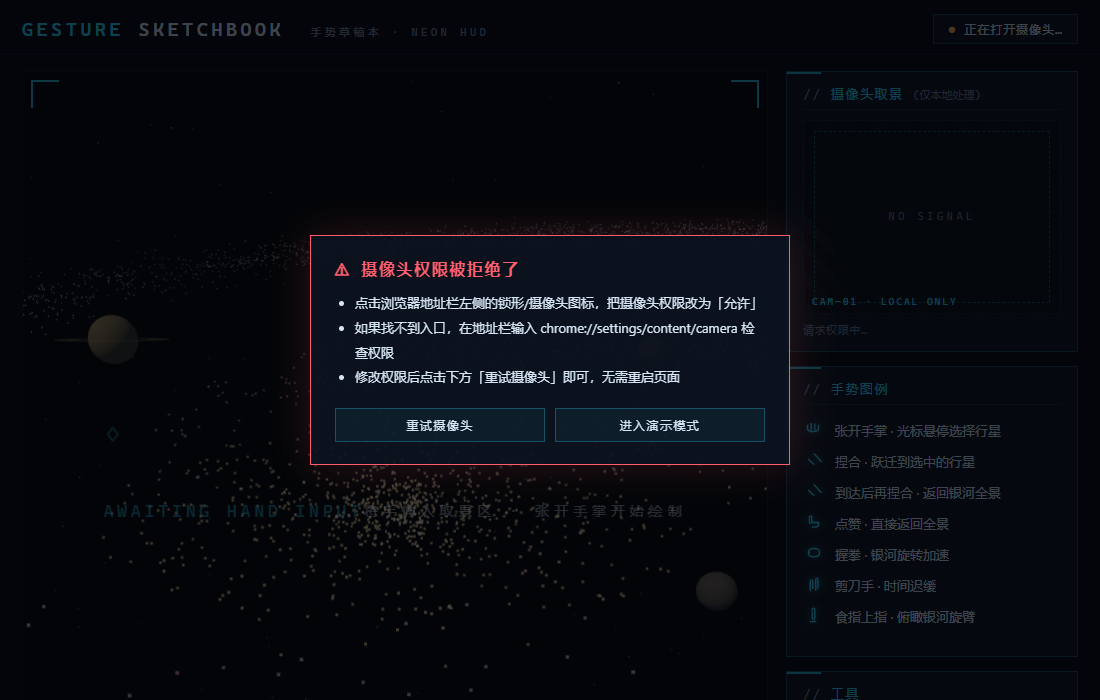
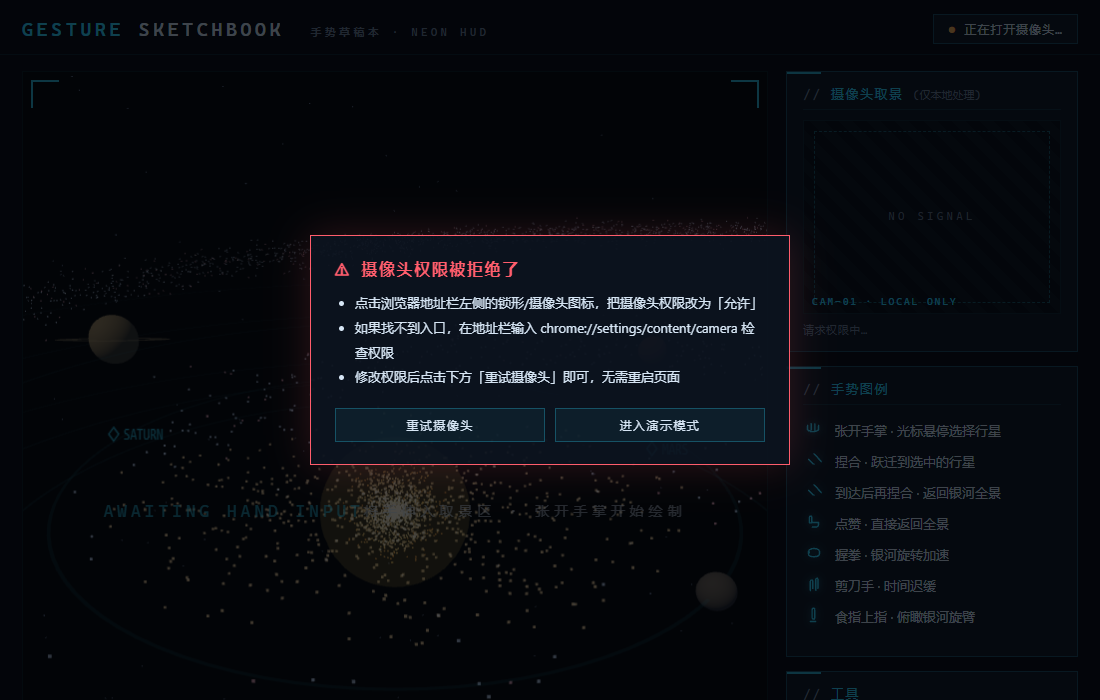
feat: 太阳改为 1400 颗金色粒子球（自转+脉动）；修复内联变量名冲突；重建单文件页

Changed region(s): [[0.2164, 0.66, 0.4945, 0.84], [0.0927, 0.6, 0.1545, 0.63], [0.4636, 0.81, 0.4945, 0.84]]

diff --git a/js/galaxy.js b/js/galaxy.js
@@ -112,16 +112,34 @@ export class Galaxy3D {
     }));
     this.scene.add(this.galaxyPoints);
 
-    // ---- 太阳：银河中心的发光恒星 + 光晕 ----
-    this.sun = new THREE.Mesh(
-      new THREE.SphereGeometry(1.15, 32, 24),
-      new THREE.MeshBasicMaterial({ color: 0xffe9b0 })
+    // ---- 太阳：1400 颗金色粒子聚成的发光恒星（自转 + 脉动）----
+    const SN = 1400;
+    const sunPos = new Float32Array(SN * 3);
+    const sunCol = new Float32Array(SN * 3);
+    const cHot = new THREE.Color("#fff3c4"), cMid = new THREE.Color("#ffd25c"), cEdge = new THREE.Color("#ff9a3c");
+    for (let i = 0; i < SN; i++) {
+      // 中心密集、边缘稀疏的球体分布
+      const rr = Math.pow(Math.random(), 1.8) * 1.12;
+      const th = Math.random() * Math.PI * 2;
+      const ph = Math.acos(2 * Math.random() - 1);
+      sunPos[i * 3] = rr * Math.sin(ph) * Math.cos(th);
+      sunPos[i * 3 + 1] = rr * Math.cos(ph);
+      sunPos[i * 3 + 2] = rr * Math.sin(ph) * Math.sin(th);
+      const c = cHot.clone().lerp(cMid, clampG(rr / 1.12, 0, 1)).lerp(cEdge, clampG(Math.max(0, rr - 0.7) / 0.42, 0, 1));
+      sunCol[i * 3] = c.r; sunCol[i * 3 + 1] = c.g; sunCol[i * 3 + 2] = c.b;
+    }
+    const sunGeo = new THREE.BufferGeometry();
+    sunGeo.setAttribute("position", new THREE.BufferAttribute(sunPos, 3));
+    sunGeo.setAttribute("color", new THREE.BufferAttribute(sunCol, 3));
+    this.sun = new THREE.Points(sunGeo, new THREE.PointsMaterial({
+      size: 0.055, vertexColors: true, transparent: true, opacity: 0.95,
+      blending: THREE.AdditiveBlending, depthWrite: false, sizeAttenuation: true,
+    }));
+    this.sunHalo = new THREE.Mesh(
+      new THREE.SphereGeometry(1.5, 32, 24),
+      new THREE.MeshBasicMaterial({ color: 0xffd25c, transparent: true, opacity: 0.22, side: THREE.BackSide })
     );
-    this.sunGlow = new THREE.Mesh(
-      new THREE.SphereGeometry(1.55, 32, 24),
-      new THREE.MeshBasicMaterial({ color: 0xffd27a, transparent: true, opacity: 0.32, side: THREE.BackSide })
-    );
-    this.scene.add(this.sun, this.sunGlow);
+    this.scene.add(this.sun, this.sunHalo);
 
     // ---- 行星轨道线：淡淡的圆环，让“行星绕太阳”一眼可读 ----
     for (const p of PLANETS) {
@@ -256,6 +274,12 @@ export class Galaxy3D {
       this.lookTarget.lerp(this._zero, Math.min(1, dt * 3));
       this.camera.lookAt(this.lookTarget);
     }
+
+    // ---- 太阳自转与脉动 ----
+    this.sun.rotation.y += dt * 0.12;
+    const pulse = 1 + Math.sin(this._time * 2.2) * 0.05;
+    this.sunHalo.scale.setScalar(pulse);
+    this.sunHalo.material.opacity = 0.2 + Math.sin(this._time * 2.2) * 0.05;
 
     // ---- 行星标签投影（2D HUD 用）----
     this.labels = this.planets.map((p) => {

diff --git a/flower/index.html b/flower/index.html
@@ -1692,16 +1692,34 @@ class Galaxy3D {
     }));
     this.scene.add(this.galaxyPoints);
 
-    // ---- 太阳：银河中心的发光恒星 + 光晕 ----
-    this.sun = new THREE.Mesh(
-      new THREE.SphereGeometry(1.15, 32, 24),
-      new THREE.MeshBasicMaterial({ color: 0xffe9b0 })
+    // ---- 太阳：1400 颗金色粒子聚成的发光恒星（自转 + 脉动）----
+    const SN = 1400;
+    const sunPos = new Float32Array(SN * 3);
+    const sunCol = new Float32Array(SN * 3);
+    const cHot = new THREE.Color("#fff3c4"), cMid = new THREE.Color("#ffd25c"), cEdge = new THREE.Color("#ff9a3c");
+    for (let i = 0; i < SN; i++) {
+      // 中心密集、边缘稀疏的球体分布
+      const rr = Math.pow(Math.random(), 1.8) * 1.12;
+      const th = Math.random() * Math.PI * 2;
+      const ph = Math.acos(2 * Math.random() - 1);
+      sunPos[i * 3] = rr * Math.sin(ph) * Math.cos(th);
+      sunPos[i * 3 + 1] = rr * Math.cos(ph);
+      sunPos[i * 3 + 2] = rr * Math.sin(ph) * Math.sin(th);
+      const c = cHot.clone().lerp(cMid, clampG(rr / 1.12, 0, 1)).lerp(cEdge, clampG(Math.max(0, rr - 0.7) / 0.42, 0, 1));
+      sunCol[i * 3] = c.r; sunCol[i * 3 + 1] = c.g; sunCol[i * 3 + 2] = c.b;
+    }
+    const sunGeo = new THREE.BufferGeometry();
+    sunGeo.setAttribute("position", new THREE.BufferAttribute(sunPos, 3));
+    sunGeo.setAttribute("color", new THREE.BufferAttribute(sunCol, 3));
+    this.sun = new THREE.Points(sunGeo, new THREE.PointsMaterial({
+      size: 0.055, vertexColors: true, transparent: true, opacity: 0.95,
+      blending: THREE.AdditiveBlending, depthWrite: false, sizeAttenuation: true,
+    }));
+    this.sunHalo = new THREE.Mesh(
+      new THREE.SphereGeometry(1.5, 32, 24),
+      new THREE.MeshBasicMaterial({ color: 0xffd25c, transparent: true, opacity: 0.22, side: THREE.BackSide })
     );
-    this.sunGlow = new THREE.Mesh(
-      new THREE.SphereGeometry(1.55, 32, 24),
-      new THREE.MeshBasicMaterial({ color: 0xffd27a, transparent: true, opacity: 0.32, side: THREE.BackSide })
-    );
-    this.scene.add(this.sun, this.sunGlow);
+    this.scene.add(this.sun, this.sunHalo);
 
     // ---- 行星轨道线：淡淡的圆环，让“行星绕太阳”一眼可读 ----
     for (const p of PLANETS) {
@@ -1836,6 +1854,12 @@ class Galaxy3D {
       this.lookTarget.lerp(this._zero, Math.min(1, dt * 3));
       this.camera.lookAt(this.lookTarget);
     }
+
+    // ---- 太阳自转与脉动 ----
+    this.sun.rotation.y += dt * 0.12;
+    const pulse = 1 + Math.sin(this._time * 2.2) * 0.05;
+    this.sunHalo.scale.setScalar(pulse);
+    this.sunHalo.material.opacity = 0.2 + Math.sin(this._time * 2.2) * 0.05;
 
     // ---- 行星标签投影（2D HUD 用）----
     this.labels = this.planets.map((p) => {

diff --git a/galaxy/index.html b/galaxy/index.html
@@ -1691,16 +1691,34 @@ class Galaxy3D {
     }));
     this.scene.add(this.galaxyPoints);
 
-    // ---- 太阳：银河中心的发光恒星 + 光晕 ----
-    this.sun = new THREE.Mesh(
-      new THREE.SphereGeometry(1.15, 32, 24),
-      new THREE.MeshBasicMaterial({ color: 0xffe9b0 })
+    // ---- 太阳：1400 颗金色粒子聚成的发光恒星（自转 + 脉动）----
+    const SN = 1400;
+    const sunPos = new Float32Array(SN * 3);
+    const sunCol = new Float32Array(SN * 3);
+    const cHot = new THREE.Color("#fff3c4"), cMid = new THREE.Color("#ffd25c"), cEdge = new THREE.Color("#ff9a3c");
+    for (let i = 0; i < SN; i++) {
+      // 中心密集、边缘稀疏的球体分布
+      const rr = Math.pow(Math.random(), 1.8) * 1.12;
+      const th = Math.random() * Math.PI * 2;
+      const ph = Math.acos(2 * Math.random() - 1);
+      sunPos[i * 3] = rr * Math.sin(ph) * Math.cos(th);
+      sunPos[i * 3 + 1] = rr * Math.cos(ph);
+      sunPos[i * 3 + 2] = rr * Math.sin(ph) * Math.sin(th);
+      const c = cHot.clone().lerp(cMid, clampG(rr / 1.12, 0, 1)).lerp(cEdge, clampG(Math.max(0, rr - 0.7) / 0.42, 0, 1));
+      sunCol[i * 3] = c.r; sunCol[i * 3 + 1] = c.g; sunCol[i * 3 + 2] = c.b;
+    }
+    const sunGeo = new THREE.BufferGeometry();
+    sunGeo.setAttribute("position", new THREE.BufferAttribute(sunPos, 3));
+    sunGeo.setAttribute("color", new THREE.BufferAttribute(sunCol, 3));
+    this.sun = new THREE.Points(sunGeo, new THREE.PointsMaterial({
+      size: 0.055, vertexColors: true, transparent: true, opacity: 0.95,
+      blending: THREE.AdditiveBlending, depthWrite: false, sizeAttenuation: true,
+    }));
+    this.sunHalo = new THREE.Mesh(
+      new THREE.SphereGeometry(1.5, 32, 24),
+      new THREE.MeshBasicMaterial({ color: 0xffd25c, transparent: true, opacity: 0.22, side: THREE.BackSide })
     );
-    this.sunGlow = new THREE.Mesh(
-      new THREE.SphereGeometry(1.55, 32, 24),
-      new THREE.MeshBasicMaterial({ color: 0xffd27a, transparent: true, opacity: 0.32, side: THREE.BackSide })
-    );
-    this.scene.add(this.sun, this.sunGlow);
+    this.scene.add(this.sun, this.sunHalo);
 
     // ---- 行星轨道线：淡淡的圆环，让“行星绕太阳”一眼可读 ----
     for (const p of PLANETS) {
@@ -1835,6 +1853,12 @@ class Galaxy3D {
       this.lookTarget.lerp(this._zero, Math.min(1, dt * 3));
       this.camera.lookAt(this.lookTarget);
     }
+
+    // ---- 太阳自转与脉动 ----
+    this.sun.rotation.y += dt * 0.12;
+    const pulse = 1 + Math.sin(this._time * 2.2) * 0.05;
+    this.sunHalo.scale.setScalar(pulse);
+    this.sunHalo.material.opacity = 0.2 + Math.sin(this._time * 2.2) * 0.05;
 
     // ---- 行星标签投影（2D HUD 用）----
     this.labels = this.planets.map((p) => {
